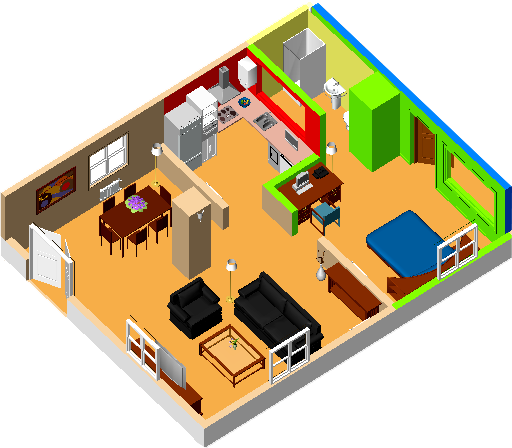
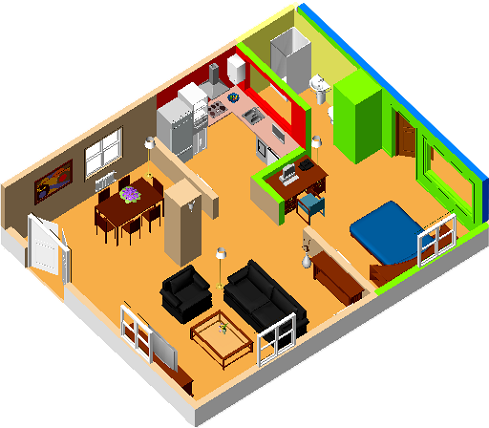
Definidas areas del plano + resaltar hover

diff --git a/public/js/cliente.js b/public/js/cliente.js
@@ -12,6 +12,49 @@ $(document).ready(function(){
 	console.log("startSystem emitido");
 });
 
+//Funciones asignadas al click en los elementos o en el plano
+$("#areaComedor").click(function() {
+	console.log("click click");
+  	$('#salon').hide();
+	$('#comedor').show();
+	cargarLamparaPie();
+	cargarPersiana();
+});
+
+$("#areaSalon").click(function() {
+  	$('#comedor').hide();
+	$('#salon').show();
+	cargarLamparaRoja();
+});
+
+$('#persiana').click(function(){
+	if (devices['persiana'].state){//la persiana esta true, subida, por lo que
+		socket.emit('turnOff',{code:devices['persiana'].code});//enviamos mensaje para bajarla
+		console.log("Emitido turnOff a: "+devices['persiana'].code);
+	}else{//si no, es que esta false y enviamos mensaje para subir
+		socket.emit('turnOn',{code:devices['persiana'].code});
+		console.log("Emitido turnOn a: "+devices['persiana'].code);
+	}
+});
+$('#lamparaPie').click(function(){
+	if (devices['lamparaPie'].state){//la lampara esta true, encendida, por lo que
+		socket.emit('turnOff',{code:devices['lamparaPie'].code});//enviamos mensaje para apgarla
+		console.log("Emitido turnOff a: "+devices['lamparaPie'].code);
+	}else{//si no, es que esta false y enviamos mensaje para encender	
+		socket.emit('turnOn',{code:devices['lamparaPie'].code});
+		console.log("Emitido turnOn a: "+devices['lamparaPie'].code);
+	}
+});
+$('#lamparaRoja').click(function(){
+	if (devices['lamparaRoja'].state){//la lampara esta true, encendida, por lo que
+		socket.emit('turnOff',{code: devices['lamparaRoja'].code});//enviamos mensaje para apagarla
+		console.log("Emitido turnOff a: "+devices['lamparaRoja'].code);
+	}else{//si no, es que esta false y enviamos mensaje para encender
+		socket.emit('turnOn',{code: devices['lamparaRoja'].code});
+		console.log("Emitido turnOn a: "+devices['lamparaRoja'].code);
+	}
+});
+
 //Al recibir un evento turnOn llamamos a la funcion de encender pasandole el codigo de dispositivo
 socket.on('turnOn',function(data){
 	console.log("Encendiendo el dispositivo: "+data.code);
@@ -80,6 +123,35 @@ function apagar (code){
 }
 
 //Funciones para hacer las animaciones
+function cargarLamparaRoja(){
+	if (devices['lamparaRoja'].status){
+		img.src = './img/animaciones/lamparaRoja/8.png';
+	}else{
+		img.src = './img/animaciones/lamparaRoja/0.png';
+	}
+	ctx = $('#lamparaRoja')[0].getContext('2d');
+	ctx.drawImage(img,0,0);
+}
+
+function cargarLamparaPie(){
+	if (devices['lamparaPie'].status){
+		img.src = './img/animaciones/lamparaPie/1.png';
+	}else{
+		img.src = './img/animaciones/lamparaPie/0.png';
+	}
+	ctx = $('#lamparaPie')[0].getContext('2d');
+	ctx.drawImage(img,0,0);
+}
+
+function cargarPersiana(){
+	if (devices['persiana'].status){
+		img.src = './img/animaciones/persiana/0.png';
+	}else{
+		img.src = './img/animaciones/persiana/25.png';
+	}
+	ctx = $('#persiana')[0].getContext('2d');
+	ctx.drawImage(img,0,0);
+}
 
 function encenderLamparaRoja(){
 	if (cont<8){
@@ -127,69 +199,4 @@ function bajarPersiana(){
 		ctx.drawImage(img,0,0);
 		setTimeout(bajarPersiana, 133);
 	}
-}
-
-///Funciones asignadas al click en los elementos o en el plano
-
-function cambiarEstadoLamparaRoja(){
-	if (devices['lamparaRoja'].state){//la lampara esta true, encendida, por lo que
-		socket.emit('turnOff',{code: devices['lamparaRoja'].code});//enviamos mensaje para apagarla
-	}else{//si no, es que esta false y enviamos mensaje para encender
-		socket.emit('turnOn',{code: devices['lamparaRoja'].code});
-	}
-}
-
-function cambiarEstadoLamparaPie(){
-	if (devices['lamparaPie'].state){//la lampara esta true, encendida, por lo que
-		socket.emit('turnOff',{code:devices['lamparaPie'].code});//enviamos mensaje para apgarla
-	}else{//si no, es que esta false y enviamos mensaje para encender	
-		socket.emit('turnOn',{code:devices['lamparaPie'].code});
-	}
-}
-
-function cambiarEstadoPersiana(){
-	if (devices['persiana'].state){//la persiana esta true, subida, por lo que
-		socket.emit('turnOff',{code:devices['persiana'].code});//enviamos mensaje para bajarla
-	}else{//si no, es que esta false y enviamos mensaje para subir
-		socket.emit('turnOn',{code:devices['persiana'].code});
-	}
-}
-
-function cargarLamparaRoja(){
-	if (devices['lamparaRoja'].status){
-		img.src = './img/animaciones/lamparaRoja/8.png';
-	}else{
-		img.src = './img/animaciones/lamparaRoja/0.png';
-	}
-	ctx = $('#lamparaRoja')[0].getContext('2d');
-	$('#lamparaPie').hide();
-	$('#persiana').hide();
-	$('#lamparaRoja').show();
-	ctx.drawImage(img,0,0);
-}
-
-function cargarLamparaPie(){
-	if (devices['lamparaPie'].status){
-		img.src = './img/animaciones/lamparaPie/1.png';
-	}else{
-		img.src = './img/animaciones/lamparaPie/0.png';
-	}
-	ctx = $('#lamparaPie')[0].getContext('2d');
-	$('#persiana').hide();
-	$('#lamparaRoja').hide();
-	$('#lamparaPie').show();
-	ctx.drawImage(img,0,0);
-}
-
-function cargarPersiana(){
-	if (devices['persiana'].status){
-		img.src = './img/animaciones/persiana/0.png';
-	}else{
-		img.src = './img/animaciones/persiana/25.png';
-	}
-	ctx = $('#persiana')[0].getContext('2d');
-	$('#lamparaPie').hide();
-	$('#lamparaRoja').hide();
-	$('#persiana').show();
-	ctx.drawImage(img,0,0);
 }

diff --git a/public/css/estilos.css b/public/css/estilos.css
@@ -79,12 +79,19 @@ nav ul li a{
 	float:left;
 }
 #comedor{
+	display:none;
 }
 #salon{
+	display:none;
 }
 .visor{
 	width:80%;
 	height:322px;
+	margin: 0 auto;
+	line-height: 450px;
+	border: 2px solid #FFA500;
+	margin-top: 62px;
+	margin-bottom:62px;
 }
 #persiana{
 	width:59%;
@@ -106,11 +113,43 @@ nav ul li a{
 	height:100%;
 	float:right;
 }
-.plano{
-	width:75%;
-	height:95%;
+.contenedor_plano{
+	position: relative;
+	width:489px;
+	height:428px;
 	margin: 11px 75px;
 }
+.contenedor_plano div{
+	position: absolute;
+	background-image: url('../img/planoHDA.png');
+}
+.plano{
+	width:489px;
+	height:428px;
+}
+#areaSalon{ 
+   top: 220px; 
+   left: 270px; 
+   height: 85px;
+   width: 105px;
+   background-position: -270px -220px;
+}  
+#areaComedor{ 
+    top: 130px; 
+    left: 80px;
+	height: 60px;
+	width: 80px;
+    background-position: -80px -130px;
+}
+.area{
+	cursor: pointer;
+}
+.area:hover{
+	border: 2px solid #FFA500;
+	margin-top:-2px;
+	margin-left:-2px;
+}
+
 footer{
 	width: 100%;
 	height: 80px;

diff --git a/public/index.html b/public/index.html
@@ -35,7 +35,11 @@
 				</div>
 			</div>
 			<div id="plano">
-				<img src="./img/planoHDA.png"class="plano">
+				<div class="contenedor_plano">
+					<div class="plano"></div>
+					<div id="areaComedor" class="area"></div>
+					<div id="areaSalon" class="area"></div>
+				</div>
 			</div>
 		</div>
 		<footer>
